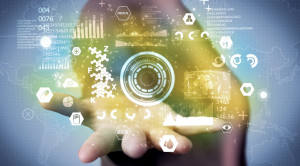
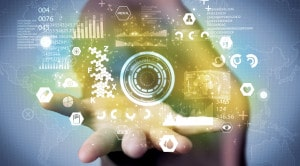
Resize photo

diff --git a/index.html b/index.html
@@ -32,22 +32,6 @@
           <img src="./images/leaf.png" alt="czysta energia" class="leaf" />
           <h1>Dzięki Naszym rozwiązaniom :</h1>
         </div>
-        <div class="benefits">
-          <ul>
-            <li>
-              <h2>
-                Zredukujesz koszty zużycia energii: prąd, gaz, woda, powietrze !
-              </h2>
-            </li>
-            <li>
-              <h2>Zapobiegniesz kosztownym awarią sieci i urządzeń !</h2>
-            </li>
-            <li>
-              <h2>Będziesz na bieżąco monitorował koszty zużycia energi !</h2>
-            </li>
-            <li><h2>Zmniejszysz swój ślad węglowy CO2 !</h2></li>
-          </ul>
-        </div>
         <div class="footprint-container">
           <img
             src="./images/saveenergy.png"
@@ -69,6 +53,22 @@
             alt="CO2 ślad węglowy"
             class="footprint"
           />
+        </div>
+        <div class="benefits">
+          <ul>
+            <li>
+              <h2>
+                Zredukujesz koszty zużycia energii: prąd, gaz, woda, powietrze !
+              </h2>
+            </li>
+            <li>
+              <h2>Zapobiegniesz kosztownym awarią sieci i urządzeń !</h2>
+            </li>
+            <li>
+              <h2>Będziesz na bieżąco monitorował koszty zużycia energi !</h2>
+            </li>
+            <li><h2>Zmniejszysz swój ślad węglowy CO2 !</h2></li>
+          </ul>
         </div>
         <a href="#contact">
         <button class="calltoaction">
@@ -96,12 +96,12 @@
           <h2>OSZCZĘDNOŚCI</h2>
         <span class="description">Dzięki szczegółowym danym dostarczanym przez system Panoramic możesz obniżyć zużycia energii elektrycznej, gazu, wody itp. Tym samym obniżysz rachunki. </span>
       </div>
-        <img src="./images/savemany.jpg" alt="Monitoring zużycia energi" >
+        <img src="./images/savemany.jpg" alt="Oszędności" >
     </div>
 </div>
 <div class="details-container">
     <div class="details-description">
-        <img src="./images/efficjent.jpg" alt="Monitoring zużycia energi">
+        <img src="./images/efficjent.jpg" alt="Zwiększenie efektywności">
         <div class="description-content">
           <h2>ZWIĘKSZENIE EFEKTYWNOŚCI</h2>
           <span class="details">Poprzez zmniejszeniu kosztów energii, a także poprzez optymalizację działań poszczególnych ciągów technologicznych, czy ostrzeganie w przypadku awarii, ogranicza kosztowne przestoje.
@@ -115,7 +115,7 @@
         <h2>POZYTYWNY WPŁYW NA ŚRODOWISKO</h2>
         <span class="description">Zmniejszenie zużycie energii to zmniejszenie emisja CO2, a tym samym mniejszy ślad węglowy i czystrze środowisko .</span>
       </div>
-        <img src="./images/ecology.jpg" alt="Monitoring zużycia energi" >
+        <img src="./images/ecology.jpg" alt="Pozytywny wpływ na środowisko" >
     </div>
 </div>
 <a href="#contact" class="details-a">

diff --git a/styles.css b/styles.css
@@ -97,14 +97,15 @@ body {
   .footprint-container {
     display: flex;
     width: 100%;
-    justify-content: space-around;
+    justify-content: center;
     align-items: center;
   }
 
   .footprint,
   .save-energy {
-    height: 50px;
+    height: 30px;
     font-weight: 50px;
+    margin: 20px 10px;
   }
 
   .contact {
@@ -132,7 +133,7 @@ body {
   .description-content > h2 {
     font-size: 16px;
     text-align: right;
-    /* color: #02445e; */
+    color: #02445e;
   }
 
   .description-content.left-title > h2 {
@@ -181,6 +182,10 @@ body {
     margin-top: 80px;
   }
 
+  li > h2 {
+    font-size: 30px;
+  }
+
   .logo-tms-container {
     display: flex;
     align-items: center;
@@ -194,17 +199,6 @@ body {
     -moz-box-shadow: 0px 11px 13px -13px rgba(66, 68, 90, 1);
     box-shadow: 0px 11px 13px -13px rgba(66, 68, 90, 1);
   }
-
-  /* .logo-tms-container {
-    position: fixed;
-    top: 0;
-    left: 0;
-    background-color: yellowgreen;
-    width: 100%;
-    height: 45px;
-    display: flex;
-    align-items: center;
-  } */
 
   .logo-tms-container > a > img {
     width: 100px;
@@ -224,10 +218,11 @@ body {
   }
 
   .header {
-    height: 100%;
-  }
-
-  .header-title {
+    height: 90vh;
+    display: flex;
+    flex-direction: column;
+    align-items: center;
+    justify-content: space-around;
   }
 
   .calltoaction {
@@ -427,6 +422,10 @@ input:focus {
   display: flex;
   align-items: center;
   justify-content: center;
+}
+
+.header-title > h1 {
+  color: #fac31f;
 }
 
 .calltoaction {
